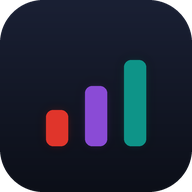
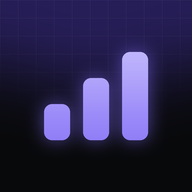
Centrum: wspólna ikona z dziennikiem, szkielety ładowania nowych kart, wyrównanie układu
Claude-Session: https://claude.ai/code/session_01Au4aXXbZcwFMNrsW3kQpeA

diff --git a/app/web/index.html b/app/web/index.html
@@ -433,7 +433,7 @@ code{font:12px ui-monospace,Menlo,monospace;background:var(--surface);border:1px
   .panel{transform:none}
 }
 /* ---------- nowe karty: obserwujący, pora, raport, co działa ---------- */
-.duo{display:grid;grid-template-columns:minmax(0,3fr) minmax(0,2fr);gap:14px;margin-bottom:14px}
+.duo{display:grid;grid-template-columns:minmax(0,3fr) minmax(0,2fr);gap:14px;margin-bottom:14px;align-items:start}
 .duo.rev{grid-template-columns:minmax(0,1fr) minmax(0,1fr)}
 .duo.solo{grid-template-columns:minmax(0,1fr)}
 .duo .card{min-width:0}
@@ -546,6 +546,8 @@ code{font:12px ui-monospace,Menlo,monospace;background:var(--surface);border:1px
 .hot b{font-weight:620}
 .hot small{display:block;color:var(--faint);font-size:12px}
 .hot .x{margin-left:auto;font-weight:650;color:var(--warn);white-space:nowrap}
+::selection{background:color-mix(in oklab,var(--accent) 35%,transparent)}
+body{text-rendering:optimizeLegibility}
 @media (max-width:900px){.duo,.duo.rev{grid-template-columns:minmax(0,1fr)}.fstats{grid-template-columns:repeat(2,minmax(0,1fr))}}
 @media (max-width:520px){.rbig{grid-template-columns:repeat(3,minmax(0,1fr));gap:6px}.rbig b{font-size:18px}.tb{grid-template-columns:minmax(0,1fr)}.fmt .fr{grid-template-columns:minmax(0,110px) minmax(0,1fr) 48px}}
 @media (prefers-reduced-motion:reduce){.hc{opacity:1;transform:none;transition:none}.hot,.hot:after,.hot .fl,#bell.ring svg{animation:none}.fmt .bar i,.forecast .prog i{transition:none}}
@@ -594,12 +596,12 @@ code{font:12px ui-monospace,Menlo,monospace;background:var(--surface);border:1px
   <section class="card board in" id="board" style="--d:320ms" aria-label="Konta"></section>
 
   <section class="duo">
-    <div class="card fol reveal spot" id="fol"></div>
-    <div class="card heat reveal spot" id="heat"></div>
+    <div class="card fol reveal spot" id="fol"><div class="card-h"><div class="sk" style="height:14px;width:42%"></div></div><div class="cpad"><div class="sk" style="height:240px;margin-top:16px"></div><div class="sk" style="height:12px;width:70%;margin-top:14px"></div></div></div>
+    <div class="card heat reveal spot" id="heat"><div class="card-h"><div class="sk" style="height:14px;width:42%"></div></div><div class="cpad"><div class="sk" style="height:240px;margin-top:16px"></div><div class="sk" style="height:12px;width:70%;margin-top:14px"></div></div></div>
   </section>
   <section class="duo rev" id="rwrap" style="margin-bottom:34px">
-    <div class="card rep reveal" id="raport"></div>
-    <div class="card ins reveal" id="ins"></div>
+    <div class="card rep reveal" id="raport"><div class="card-h"><div class="sk" style="height:14px;width:42%"></div></div><div class="cpad"><div class="sk" style="height:300px;margin-top:16px"></div><div class="sk" style="height:12px;width:70%;margin-top:14px"></div></div></div>
+    <div class="card ins reveal" id="ins"><div class="card-h"><div class="sk" style="height:14px;width:42%"></div></div><div class="cpad"><div class="sk" style="height:300px;margin-top:16px"></div><div class="sk" style="height:12px;width:70%;margin-top:14px"></div></div></div>
   </section>
 
   <div class="sec-h reveal">
